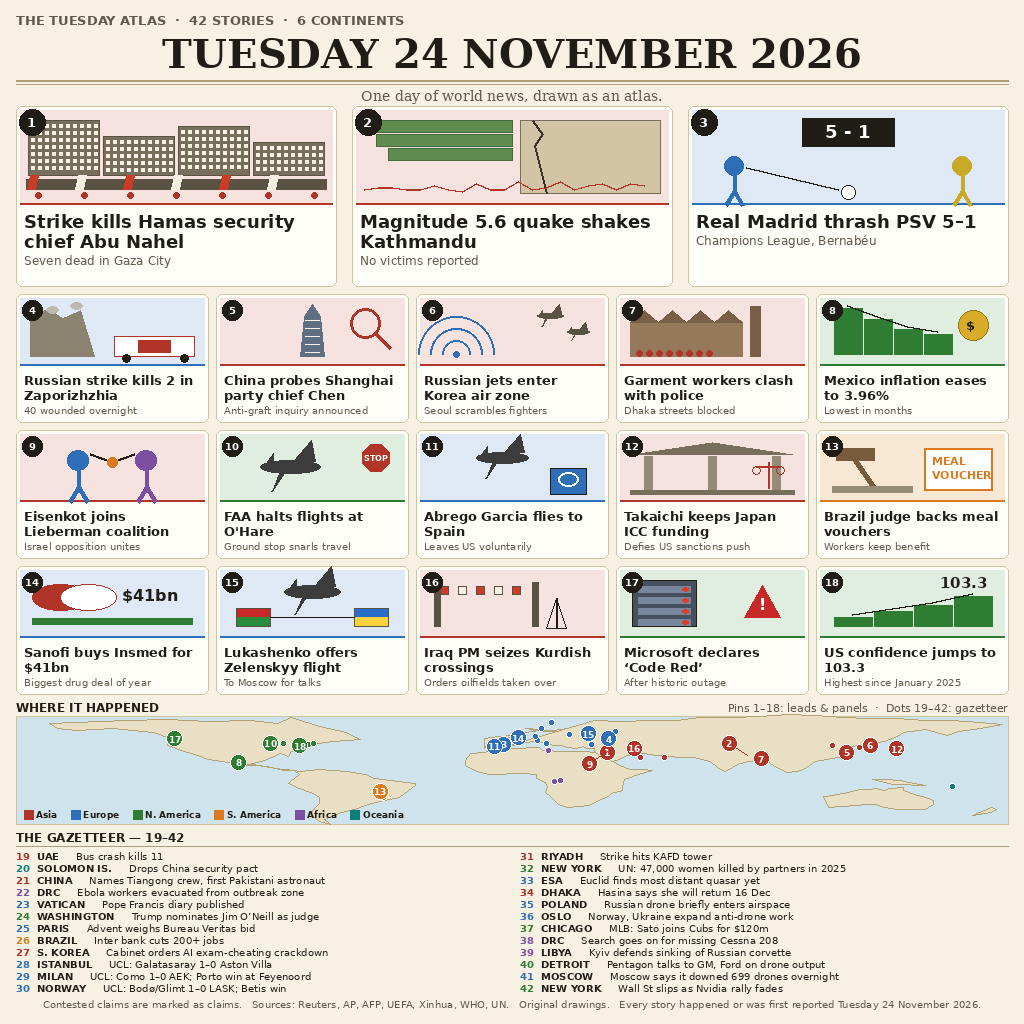
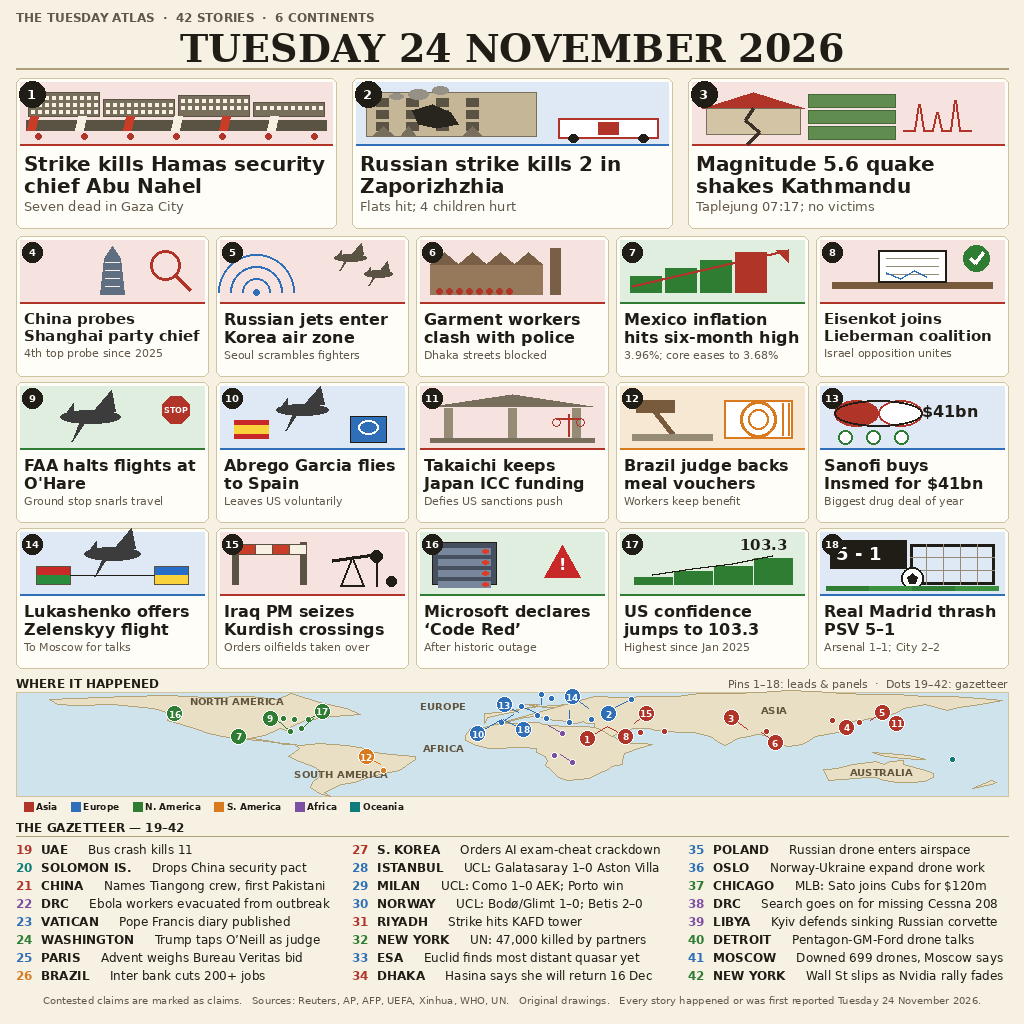
ni24 rebuild R2: fix Mexico card (six-month high), leads Gaza/Zaporizhzhia/Nepal, Real Madrid to panel 18, 16pt panels, 3-col gazetteer, labelled map

diff --git a/README.md b/README.md
@@ -2,10 +2,12 @@
 
 One image summing up Tuesday 24 November 2026 in world news.
 
-- **42 stories, 6 continents**: 3 illustrated leads, 15 illustrated panels
-  (numbered 4–18), and a 24-item gazetteer (19–42).
+- **42 stories, 6 continents**: 3 illustrated leads (Gaza, Zaporizhzhia,
+  Nepal), 15 illustrated panels (numbered 4–18; Real Madrid 5–1 is panel 18),
+  and a 24-item gazetteer (19–42) in 3 columns.
 - **Light cream atlas style**: date masthead, specific scene illustrations
-  per story, light world map with numbered region-coloured pins.
+  per story, light world map with numbered region-coloured pins and labelled
+  continents.
 - Every story happened or was first reported on Tuesday 24 November 2026
   (UTC). Contested claims are marked as claims. See
   `../date-log-rebuild.md` for the per-story source log.
